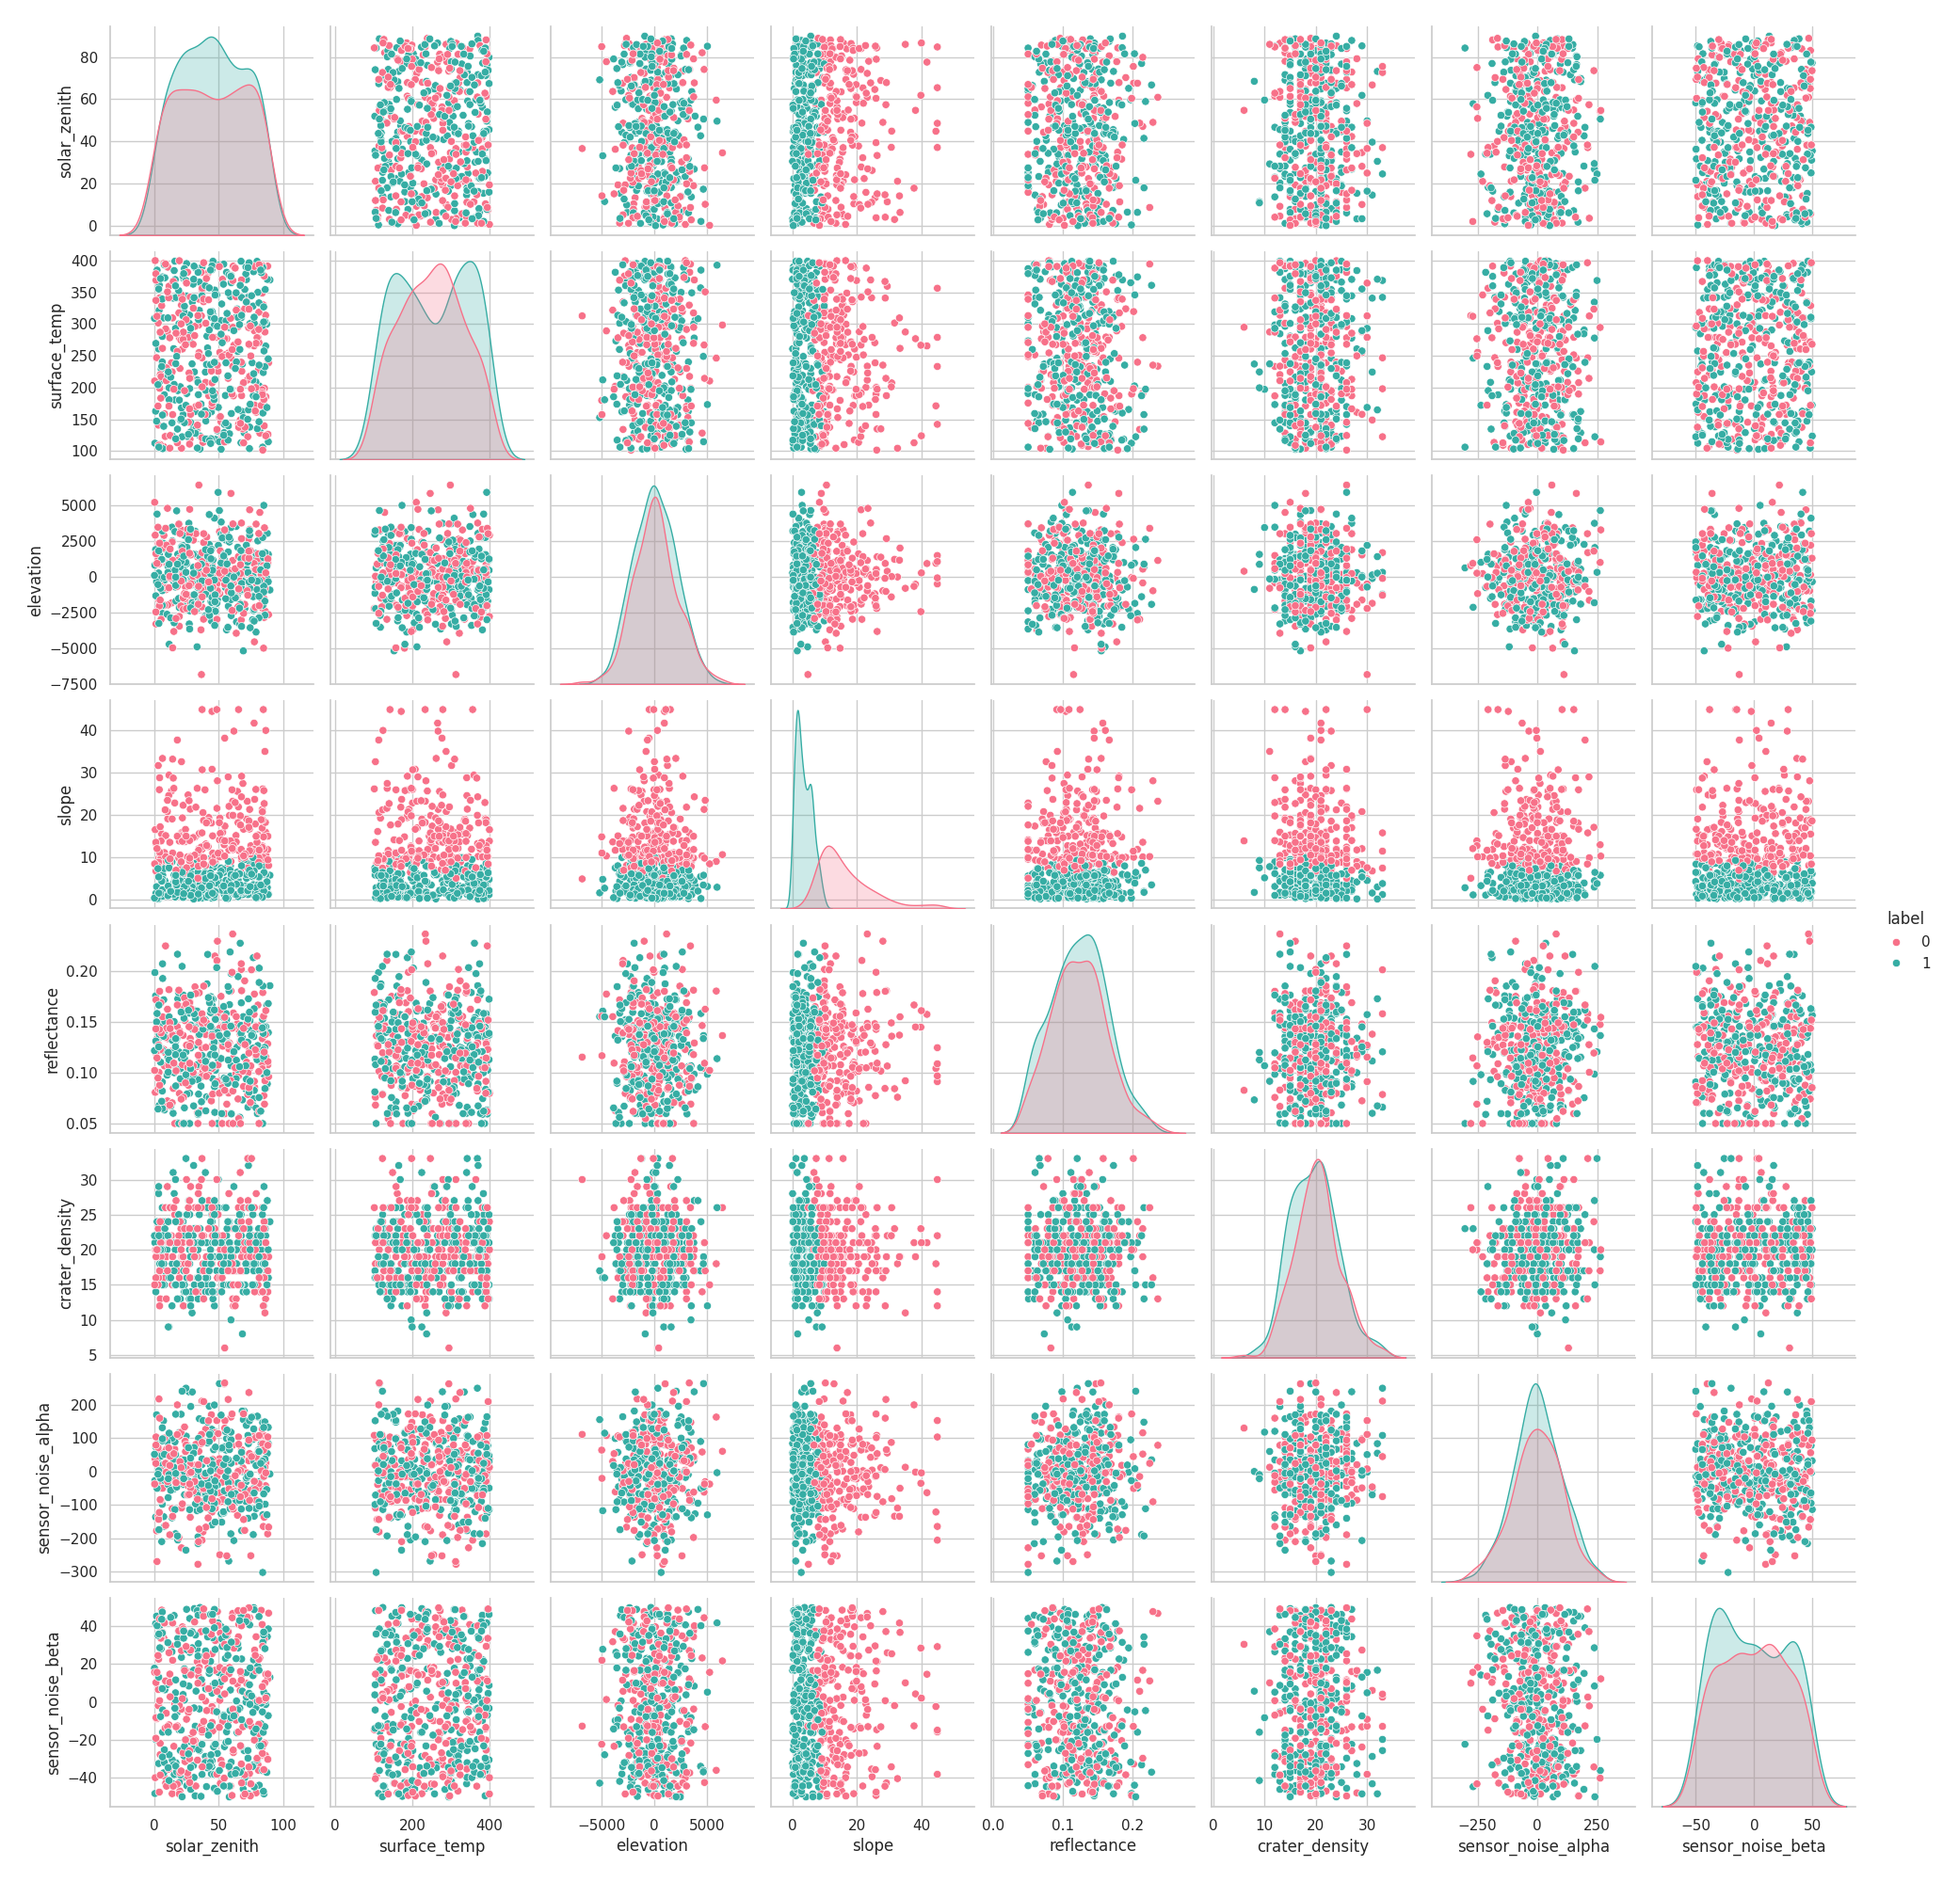
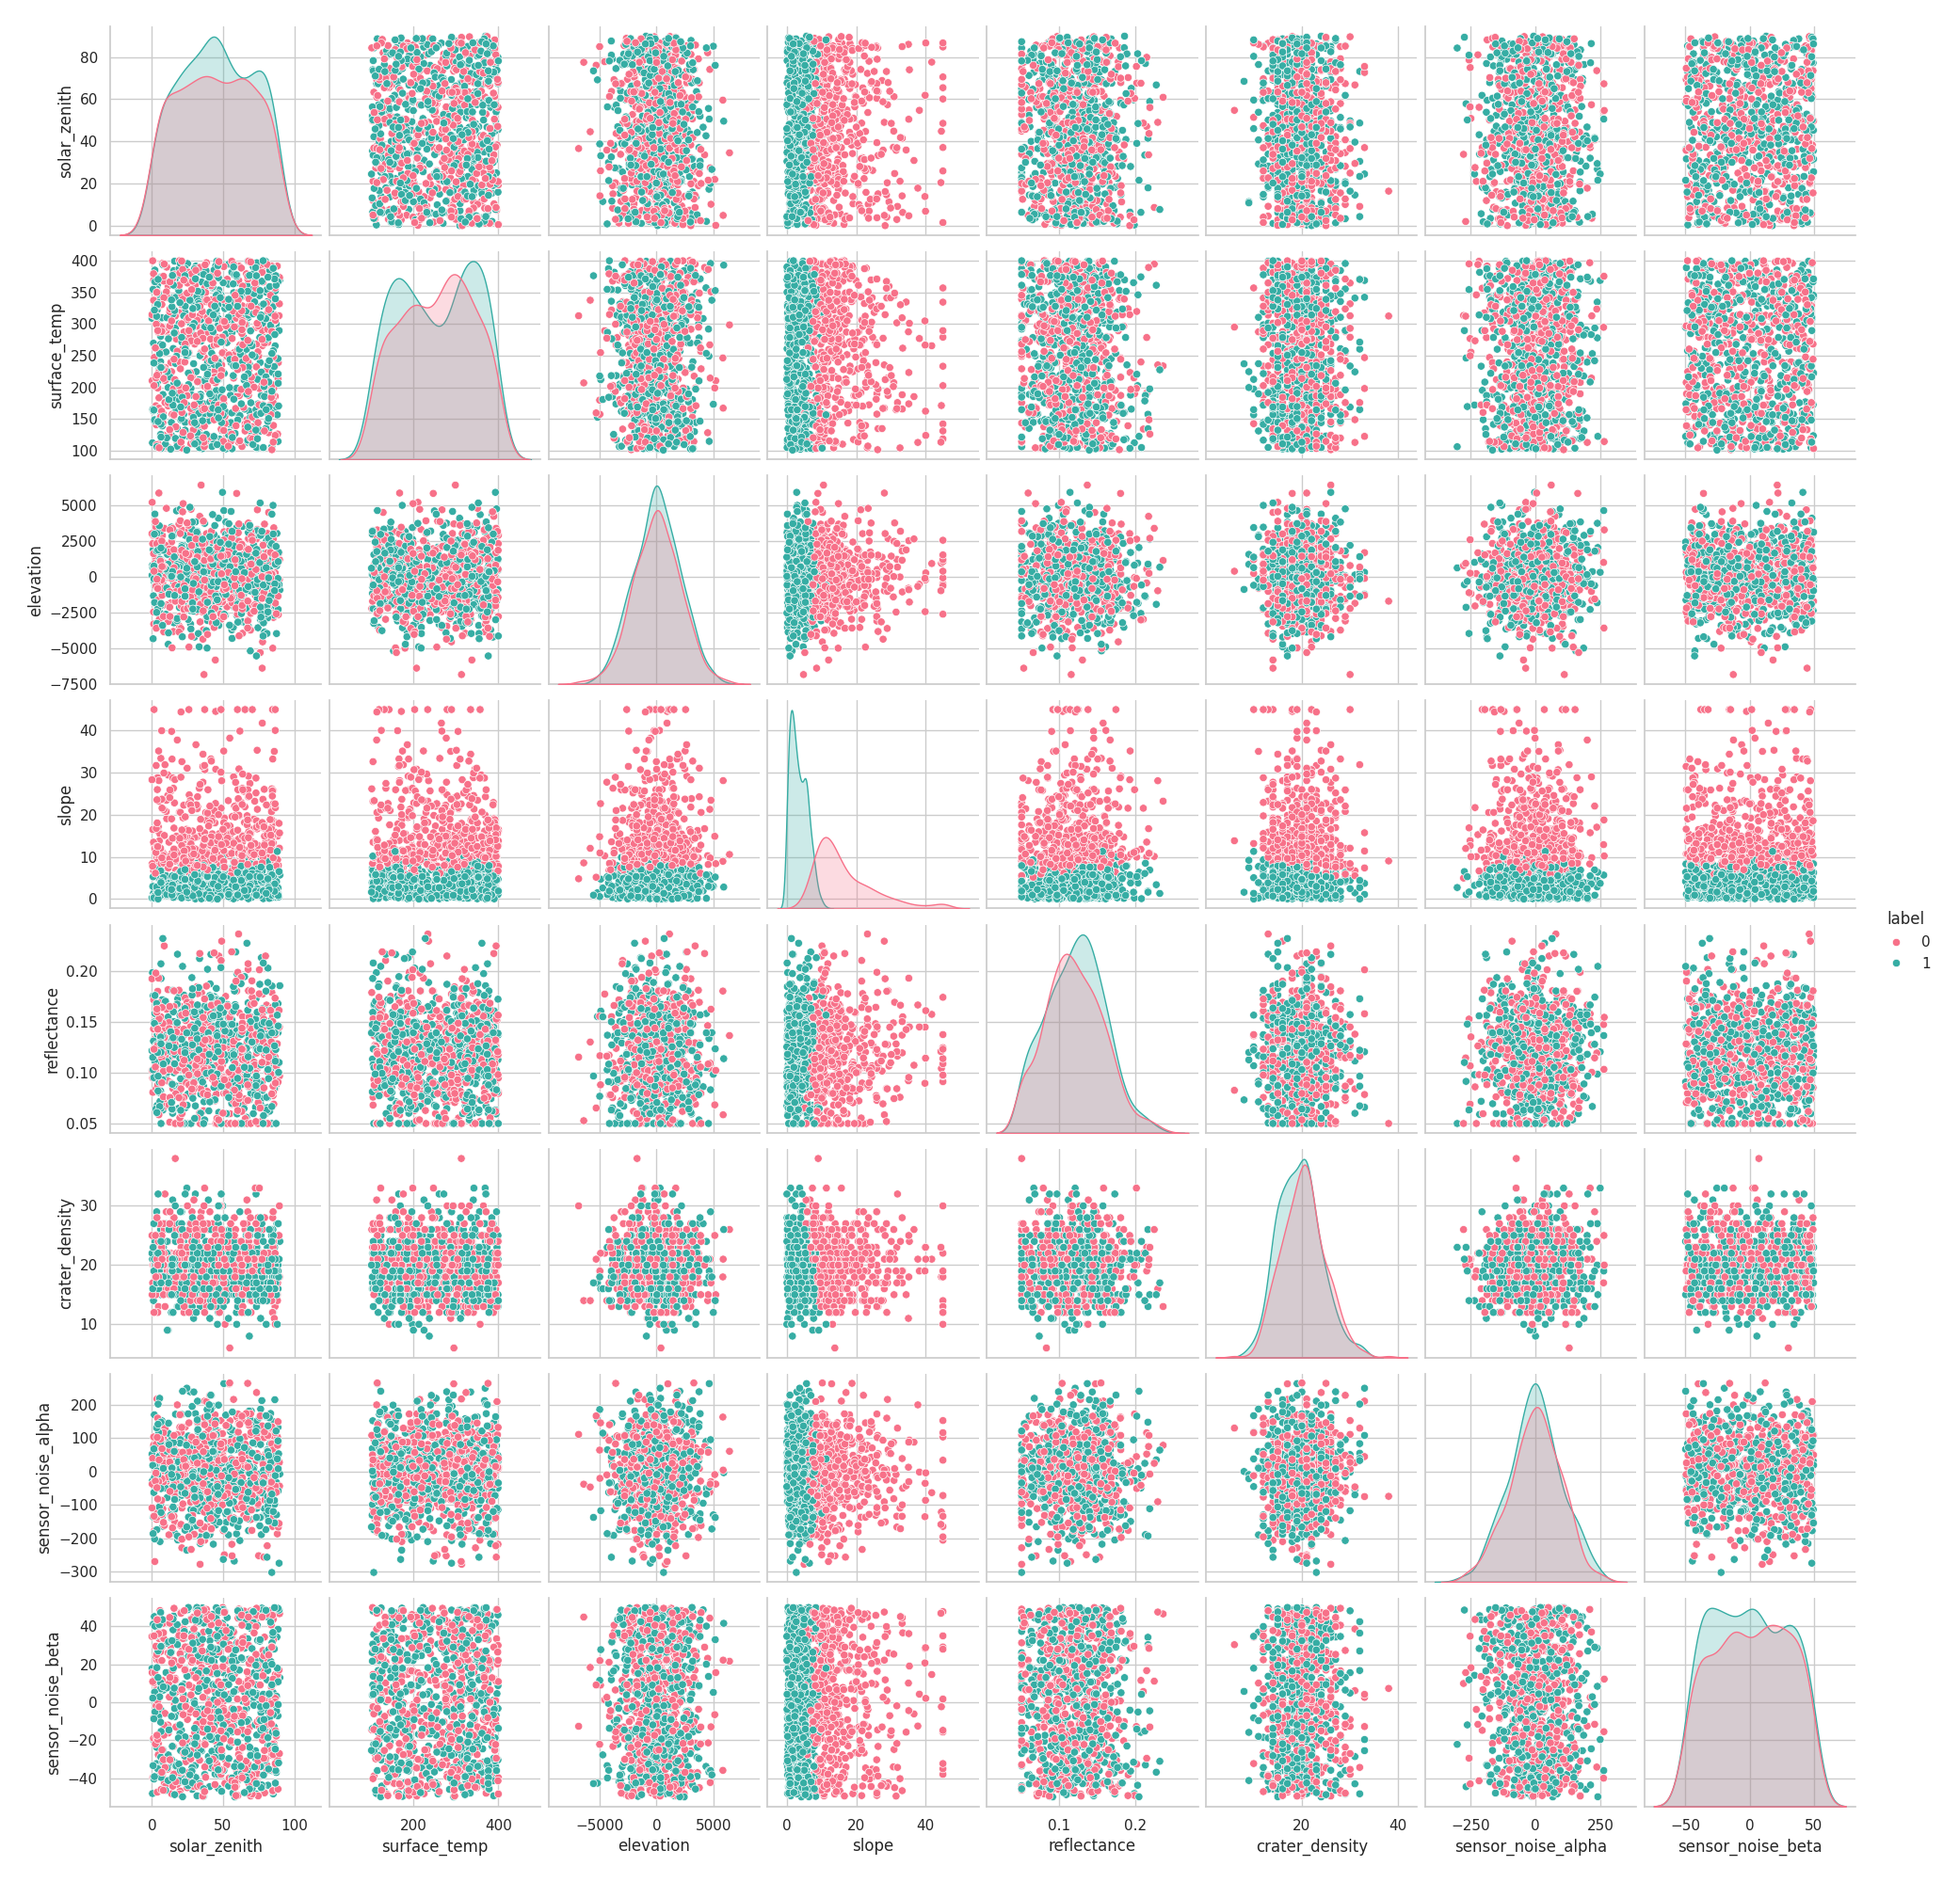
updating readme

diff --git a/visualization/visualization.py b/visualization/visualization.py
@@ -11,16 +11,16 @@ sns.set_theme(style="whitegrid")
 plt.figure(figsize=(12, 10))
 
 # 1. Correlation Heatmap
-sns.heatmap(df.corr(), annot=True, cmap='coolwarm', fmt=".2f", linewidths=0.5)
+sns.heatmap(df.corr(method='spearman'), annot=True, cmap='coolwarm', fmt=".2f", linewidths=0.5)
 plt.title('Feature Correlation Matrix')
-plt.savefig('correlation_matrix.png')
+plt.savefig('spearman_correlation_matrix.png')
 plt.close()
 
 # 2. Pairplot colored by the target label to see distributions and separations
 # (Sampling 500 points for speed if the dataset is large)
-sample_df = df.sample(n=min(500, len(df)), random_state=42)
+sample_df = df.sample(n=min(1000, len(df)), random_state=42)
 sns.pairplot(sample_df, hue='label', palette='husl', diag_kind='kde')
 plt.savefig('features_pairplot.png')
 plt.close()
 
-print("Visualizations saved as 'correlation_matrix.png' and 'features_pairplot.png'!")
+print("Visualizations saved as 'spearman_correlation_matrix.png' and 'features_pairplot.png'!")

diff --git a/README.md b/README.md
@@ -1,7 +1,28 @@
-making the readme
-##CHECKING THE DATASET
+
+<h2>Data Visualization: CHECKING THE DATASET</h2>
     acquired the dataset from get_previous_data() funcction from lunadem. and saved it as data.csv
 
     got the following plots in data: 
-    ![Correlation](./visualization/correlation_matrix.png)
-    ![Pairplot](./visualization/features_pairplot.png)
+<!-- Resize an image -->
+<p align="center">
+Pearson Correlation Matrix
+<img src="visualization/pearson_correlation_matrix.png" alt="Corrrelation Matrix" width=100%>
+</p>
+<p align="center">
+<!-- Center an image -->
+Kendall Correlation Matrix
+  <img src="visualization/kendall_correlation_matrix.png" alt="Corrrelation Matrix" width=100%>
+</p>
+
+</p>
+<p align="center">
+<!-- Center an image -->
+Spearman Correlation Matrix
+  <img src="visualization/spearman_correlation_matrix.png" alt="pairplot" width=100%>
+</p>
+<p align="center">
+
+<!-- Center an image -->
+Features Pairplot
+  <img src="visualization/features_pairplot.png" alt="pairplot" width=100%>
+</p>
